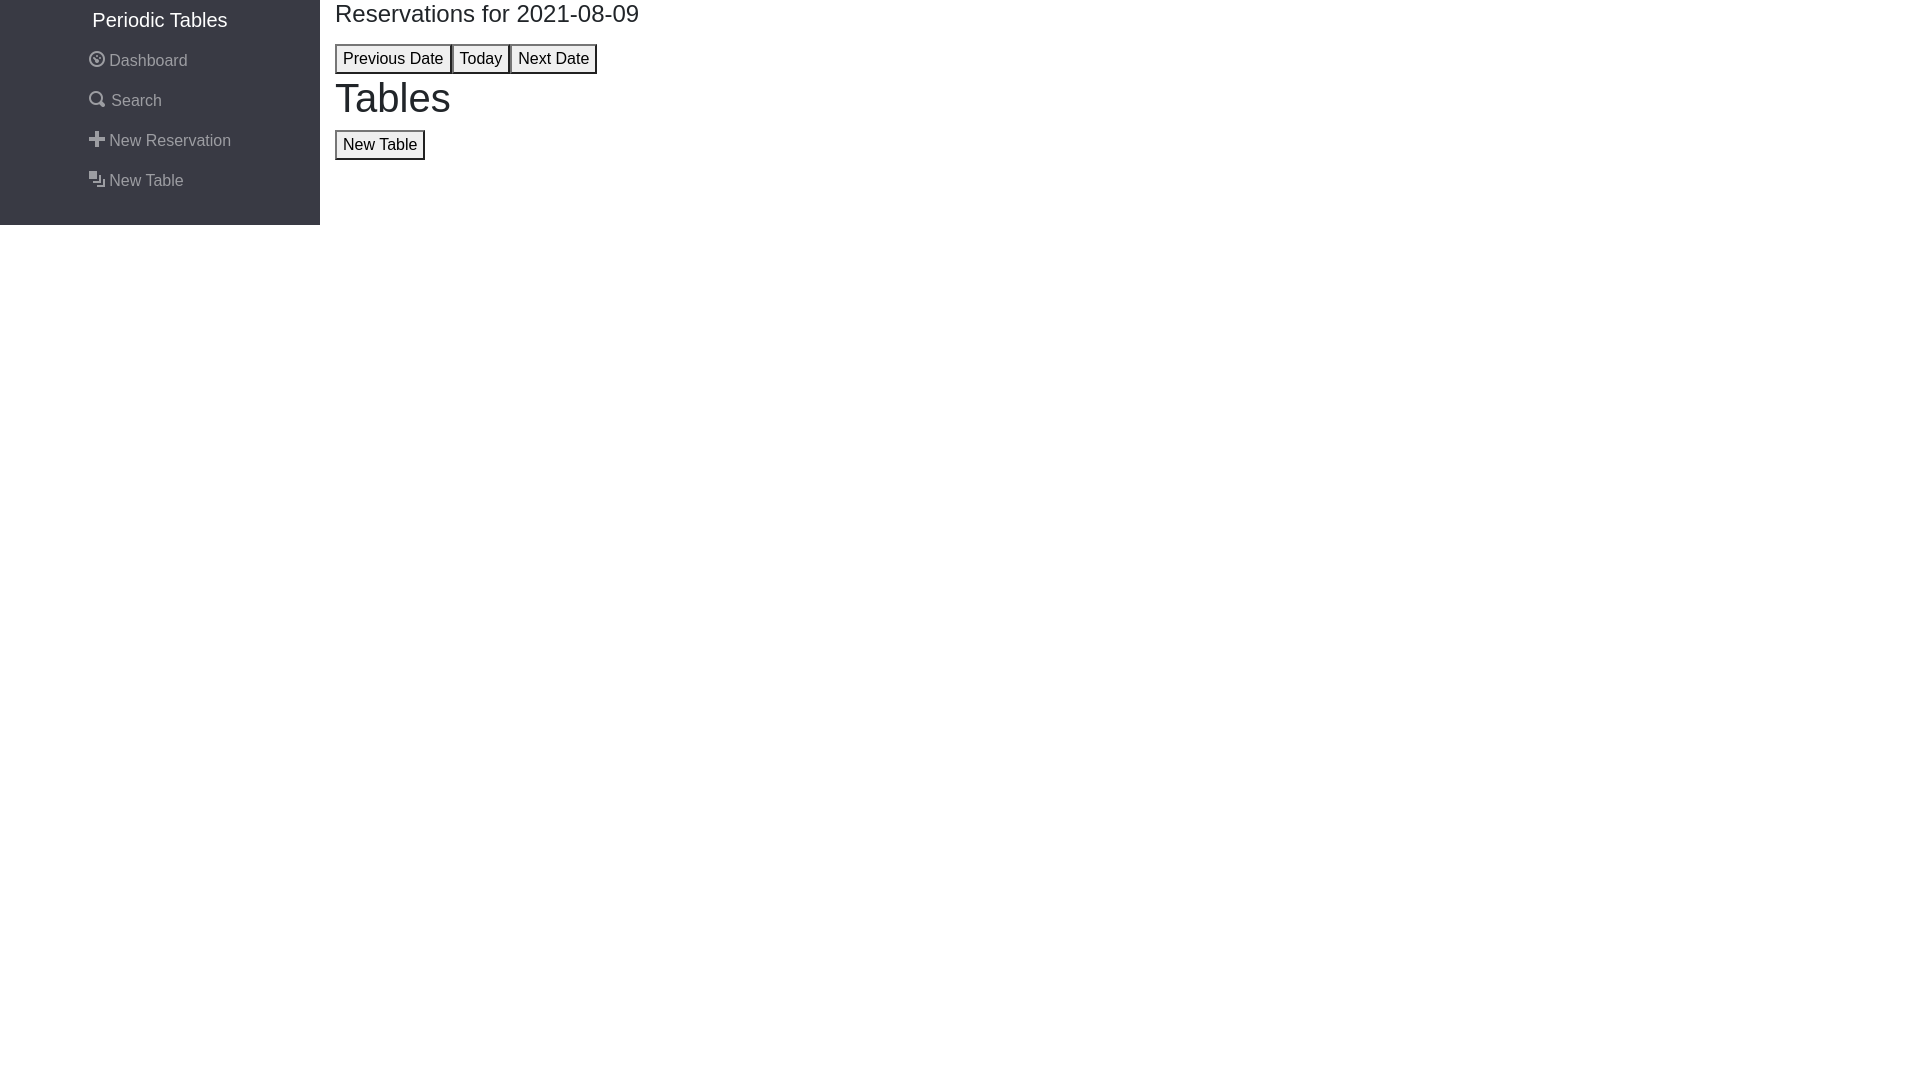
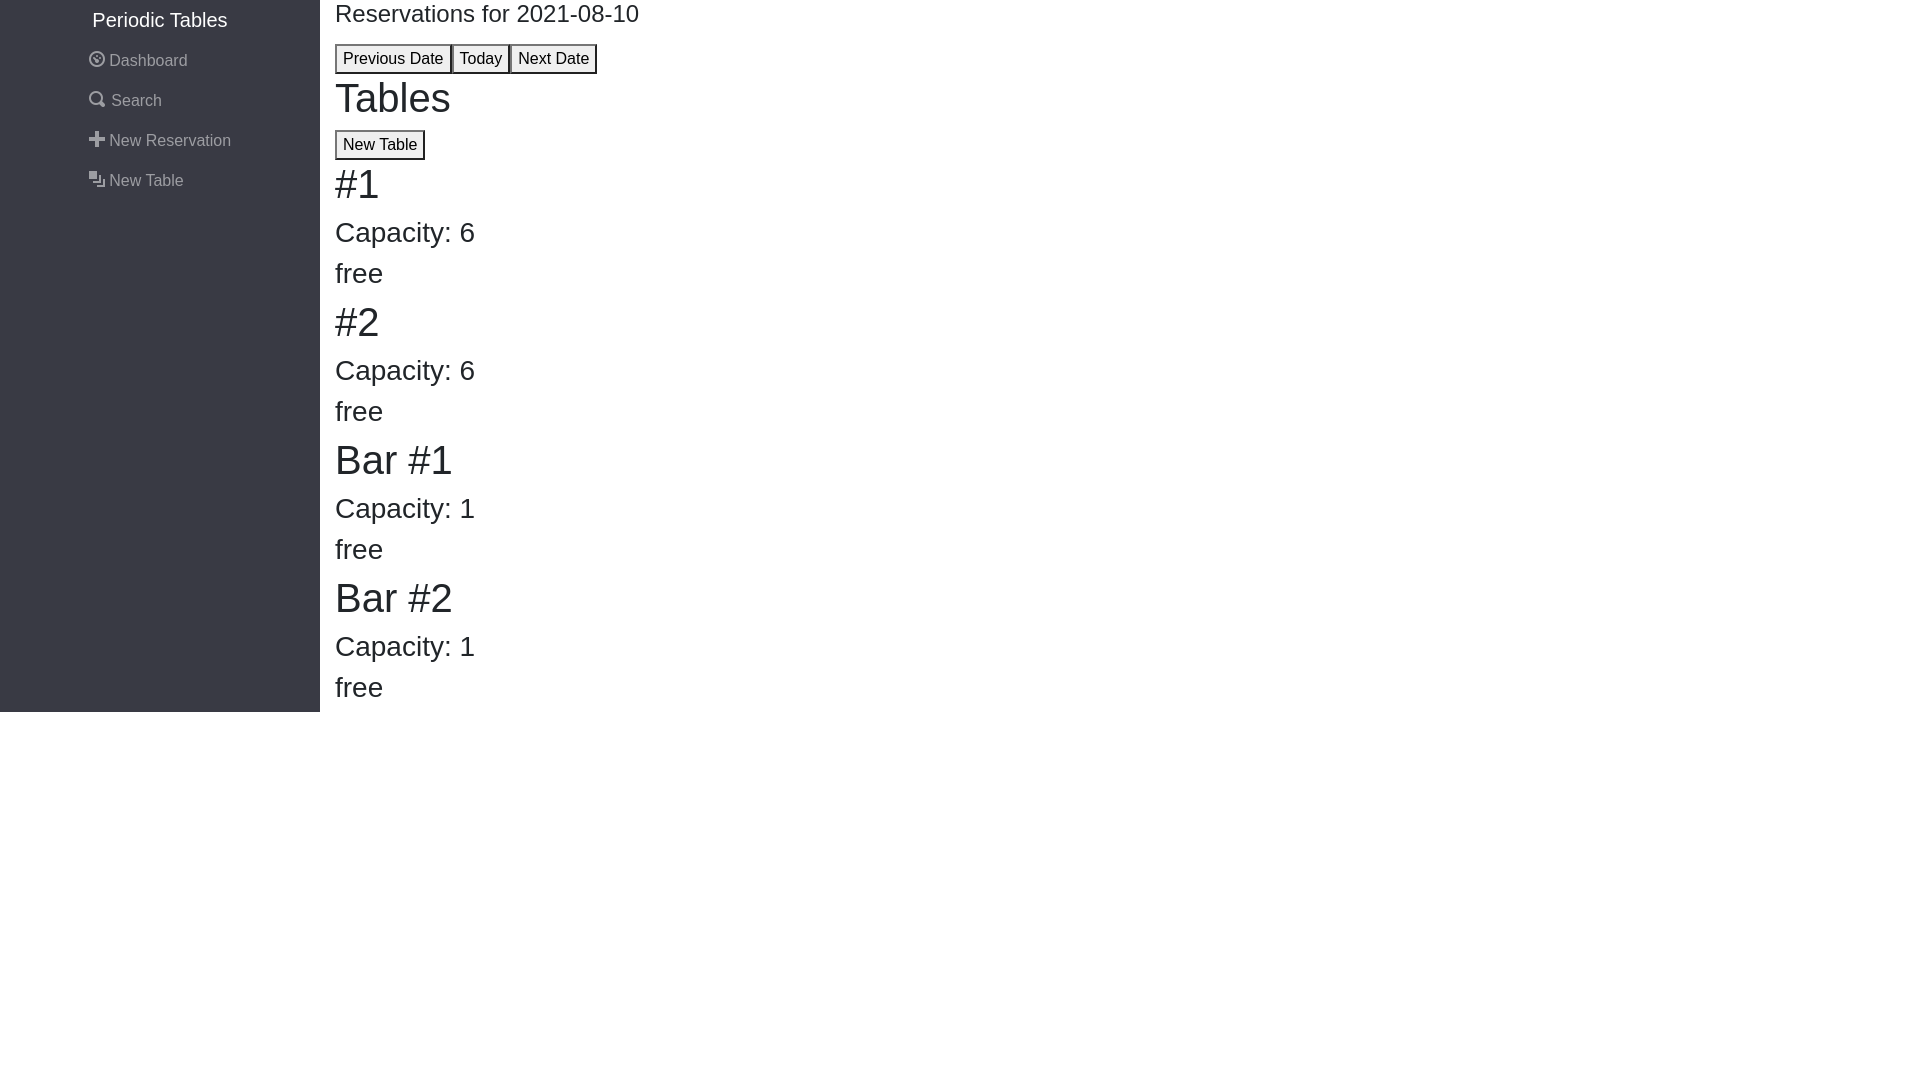
US-05 and US-06 tests passing

Changed region(s): [[0.0, 0.1833, 0.25, 0.6722], [0.3125, 0.0, 0.3438, 0.0306], [0.1562, 0.1528, 0.1875, 0.1833]]

diff --git a/back-end/src/reservations/reservations.controller.js b/back-end/src/reservations/reservations.controller.js
@@ -5,7 +5,7 @@ const service = require("./reservations.service");
  * List handler for reservation resources
  */
 function validateReservation (req, res, next) {
-  const {data: {first_name, last_name, mobile_number, reservation_date, reservation_time, people} ={}} = req.body;
+  const {data: {first_name, last_name, mobile_number, reservation_date, reservation_time, people, status} ={}} = req.body;
     
     let temp_reservation_time = reservation_time && reservation_time.replace(":","");
     let regExp = /[a-zA-Z]/g;
@@ -43,6 +43,9 @@ function validateReservation (req, res, next) {
       else if(typeof req.body.data.people !== "number"){
         next({ status: 400, message: "people needs to be a number!"});
       }
+      else if(status === "seated" || status === "finished"){
+        next({ status: 400, message: "Created reservation cannot be seated or finished"});
+      }
       else{
         console.log("VALID RESERVATION");
         next();
@@ -53,6 +56,31 @@ async function isTimeTaken(req, res, next) {
   const data = await service.findByDateAndTime(reservation_date, reservation_time);
   if(data.length)
     next({ status: 400, message: "Reservation already scheduled for this time!"});
+
+  next();
+}
+function updateValidation(req, res, next) {
+  const reqStatus = req.body.data.status;
+  const status = res.locals.reservation.status;
+  console.log(`UPDATEVALIDATIONCALLED reqstatus: ${reqStatus} localstatus: ${status}`)
+  if (
+    reqStatus !== "booked" &&
+    reqStatus !== "seated" &&
+    reqStatus !== "finished" &&
+    reqStatus !== "cancelled"
+  ) {
+    next({
+      status: 400,
+      message: "unknown status.",
+    });
+  }
+
+  if (status === "finished") {
+    next({
+      status: 400,
+      message: "a finished reservation cannot be updated.",
+    });
+  }
 
   next();
 }
@@ -86,12 +114,17 @@ async function read(req, res) {
   res.status(200).json({ data });
 }
 async function update(req, res) {
+  console.log(`UPDATECALLED`)
+  const reservation_id = req.params.reservation_id;
+  const status = req.body.data.status;
 
+  const updateStatus = await service.update(reservation_id, status);
+  res.status(200).json({ data: updateStatus });
 }
 
 module.exports = {
   list: asyncErrorBoundary(list),
   create: [validateReservation, asyncErrorBoundary(create)],
   read: [asyncErrorBoundary(reservationExists), read],
-  update: [asyncErrorBoundary(reservationExists), asyncErrorBoundary(update)]
+  update: [asyncErrorBoundary(reservationExists), updateValidation, asyncErrorBoundary(update)]
 };

diff --git a/back-end/src/tables/tables.controller.js b/back-end/src/tables/tables.controller.js
@@ -55,12 +55,24 @@ async function destroy(req, res) {
     res.status(200).json({ data })
 }
 async function checkForReservation(req, res, next) {
- 
+    if(!res.locals.table.reservation_id){
+        return next({
+            status: 400,
+            message: `Table is not occupied`,
+          });
+    }
+    next();
 }
 async function removeReservation(req, res) {
+    if(!res.locals.table.reservation_id){
+        return next({
+            status: 400,
+            message: `Table is not occupied`,
+          });
+    }
     const table = await {...res.locals.table,
         reservation_id: null}
-
+    
     await reservationsService.update(
             Number(res.locals.table.reservation_id),
             "finished"
@@ -68,7 +80,7 @@ async function removeReservation(req, res) {
     const data = await service.update(table);
     res.status(200).json({ data });
 }
-async function isTableOccupied(req, res, next) {
+async function isTableAlreadyOccupied(req, res, next) {
     if(res.locals.table.reservation_id){
         return next({
             status: 400,
@@ -86,6 +98,10 @@ async function resExists(req, res, next) {
     }
     const reservation = await reservationsService.read(resId);
     if(reservation){
+        if(reservation.status==="seated"){
+            next({ status:400,
+                message: "reservation is already seated"})
+        }
         res.locals.seatingreservation = reservation;
         next();
     }
@@ -116,7 +132,6 @@ async function validateDataSent(req, res, next) {
     next();
 }
 async function update(req, res) {
-
     const updatedTable = await {
         ...res.locals.table,
         reservation_id: req.body.data.reservation_id
@@ -133,7 +148,7 @@ async function update(req, res) {
 module.exports = {
     list: [asyncErrorBoundary(list)],
     create: [validateTable, asyncErrorBoundary(create)],
-    update: [asyncErrorBoundary(tableExists), validateDataSent, asyncErrorBoundary(resExists), capacityCheck, isTableOccupied, asyncErrorBoundary(update)],
+    update: [asyncErrorBoundary(tableExists), validateDataSent, asyncErrorBoundary(resExists), capacityCheck, isTableAlreadyOccupied, asyncErrorBoundary(update)],
     destroy,
-    removeReservation: [asyncErrorBoundary(tableExists), asyncErrorBoundary(removeReservation)]
+    removeReservation: [asyncErrorBoundary(tableExists), checkForReservation, asyncErrorBoundary(removeReservation)]
 }

diff --git a/front-end/src/reservations/Reservation.js b/front-end/src/reservations/Reservation.js
@@ -7,12 +7,13 @@ export default function Reservation ({res}) {
         <div>
             <h3>{res.first_name},{res.last_name} Party of: {res.people}</h3>
             <div>Date: {res.reservation_date}, Time: {res.reservation_time}</div>
-            <Link
+            <div data-reservation-id-status={res.reservation_id}>{res.status}</div>
+            {res.status !="seated" ? <Link
                         to={`/reservations/${res.reservation_id}/seat`}
                         className="btn btn-light m-2"
                         >
                         Seat
-                        </Link>                 
+                        </Link> : ""}                
         </div>
     )
 }

diff --git a/front-end/src/tables/Table.js b/front-end/src/tables/Table.js
@@ -15,8 +15,8 @@ export default function Table({table, clearTable}) {
     <main>
       <h1>{table.table_name}</h1>
       <h3>Capacity: {table.capacity}</h3>
-      <h3 data-table-id-status={table.table_id}>{table.reservation_id ? "Occupied"
-      : "Free"}</h3>
+      <h3 data-table-id-status={table.table_id}>{table.reservation_id ? "occupied"
+      : "free"}</h3>
       <h3>{table.reservation_id ? <button data-table-id-finish={table.table_id} onClick={handleClick}>Finish</button>
       : ""}</h3>
       <div>

diff --git a/front-end/src/tables/Tables.js b/front-end/src/tables/Tables.js
@@ -13,7 +13,7 @@ import Table from "./Table"
 export default function Tables({loadDashboard, tables, tablesError}) {
   const history = useHistory();
   function clearTable(table_id) {
-    const confirm = window.confirm("Is the party at this table finished?");
+    const confirm = window.confirm("Is this table ready to seat new guests?");
       if(confirm) {
         finishTable(table_id)
         .then(loadDashboard)

diff --git a/back-end/src/reservations/reservations.router.js b/back-end/src/reservations/reservations.router.js
@@ -4,6 +4,10 @@ const controller = require("./reservations.controller");
 router.route("/:reservation_id")
 .get(controller.read)
 
+router
+  .route("/:reservation_id/status")
+  .put(controller.update)
+
 router.route("/")
 .get(controller.list)
 .post(controller.create);

diff --git a/back-end/src/reservations/reservations.service.js b/back-end/src/reservations/reservations.service.js
@@ -4,7 +4,8 @@ const tableName = "reservations";
 
 function list(reservation_date) {
     return knex(tableName).select("*")
-    .where({reservation_date}) 
+    .where({reservation_date})
+    .whereNot({status: "finished"})
     .orderBy("reservation_time", "asc");
 }
 
